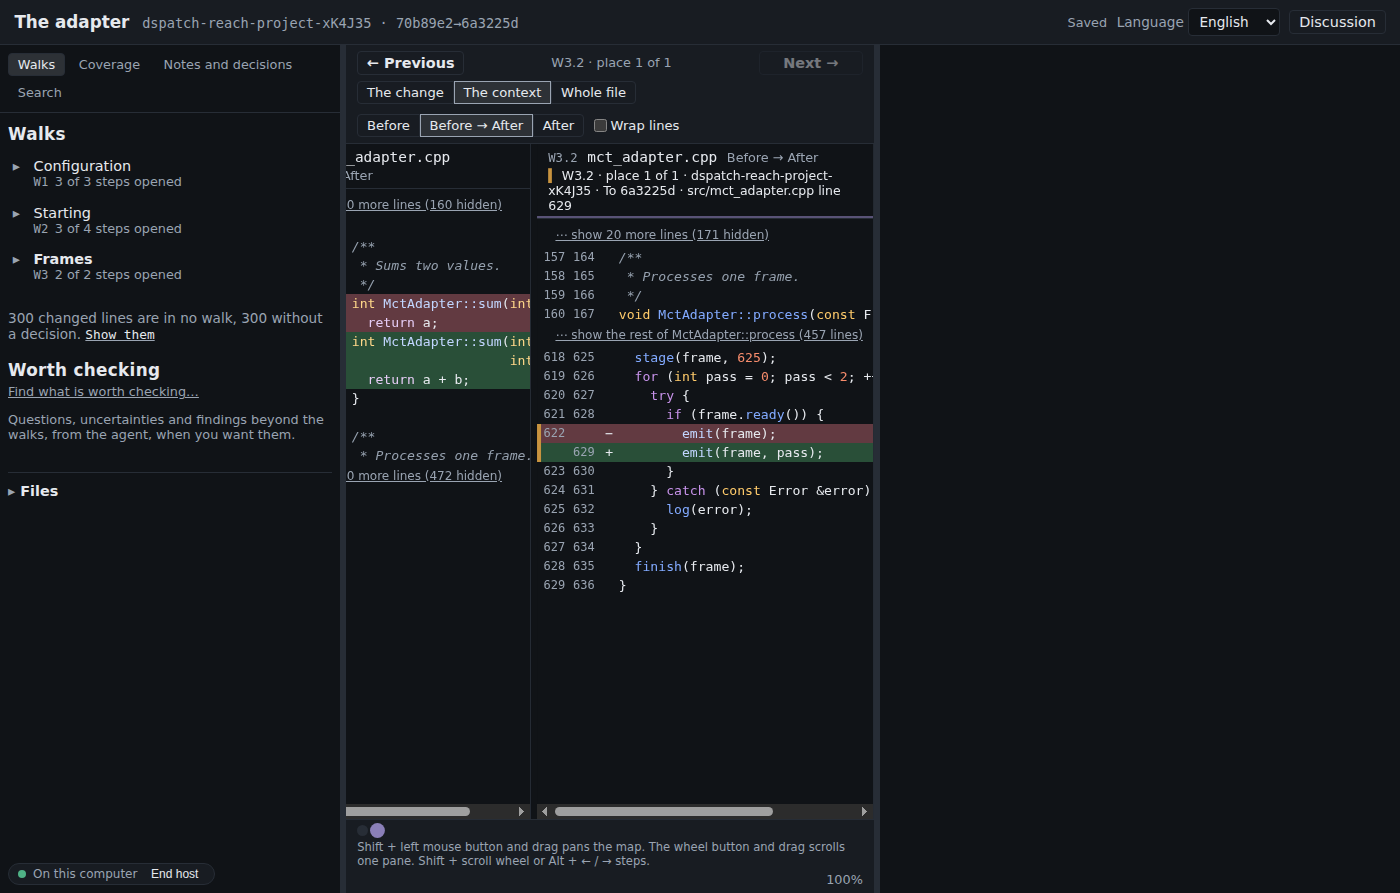
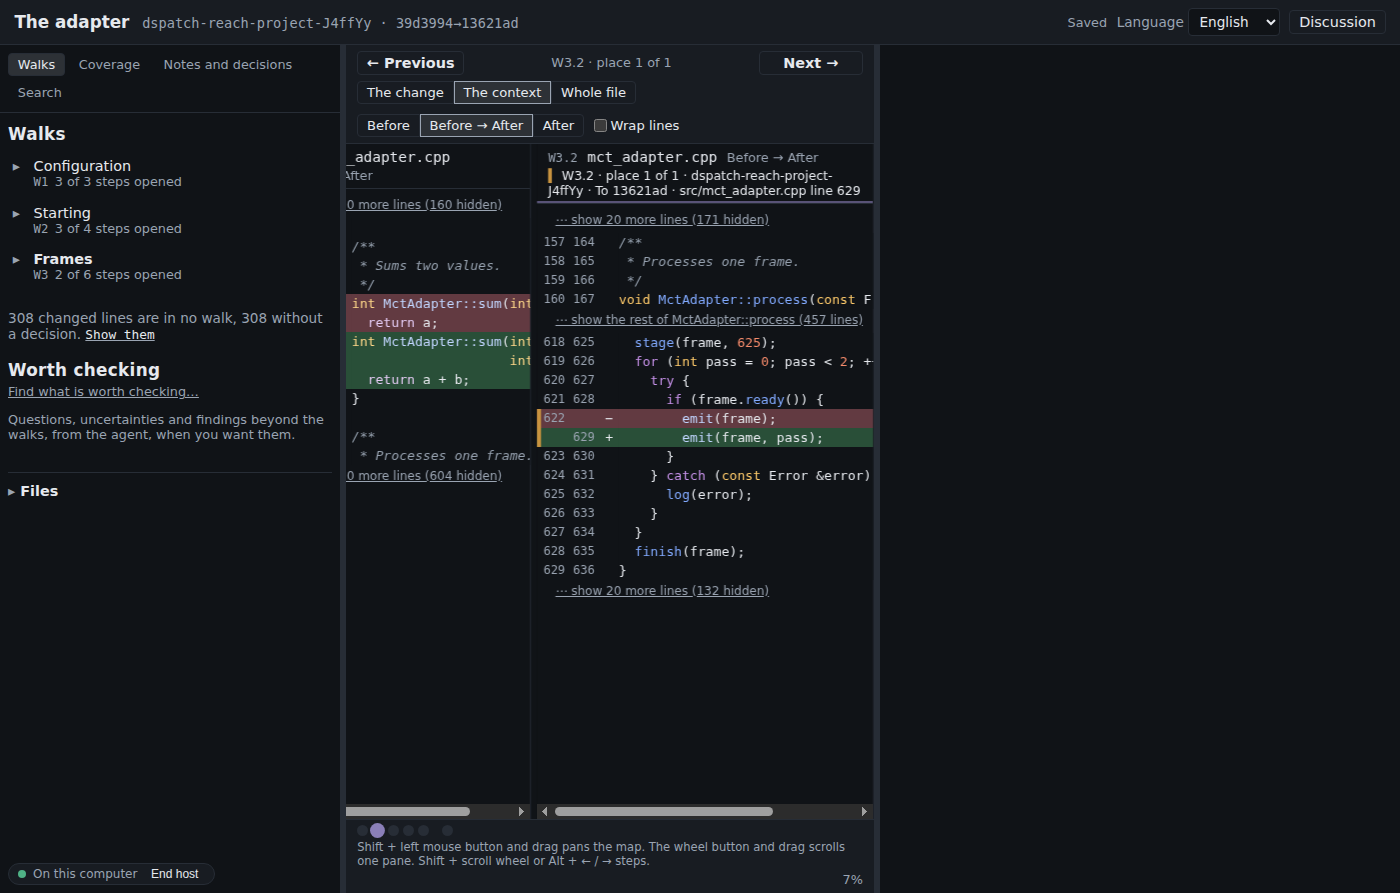
docs: DSP-207's final correction: whole functions up to 150 lines, what the old coverage table counted and what it counts now, uncertain boundaries, with new Linux screenshots

diff --git a/docs/evaluations/dsp-207/README.md b/docs/evaluations/dsp-207/README.md
@@ -7,8 +7,8 @@ Niclas reported two things on 13 November 2026:
 There is no release; he assesses the result first.
 
 Both examples were recreated in [`app/scripts/walk-reach-trial.mjs`](../../../app/scripts/walk-reach-trial.mjs), DSpatch's real windows over a generic C++ project:
-- **Linux, under Xvfb:** 50 of 50 checks, in linux-verify's `dock` job (run 43468653156);
-- **Windows, locally:** 50 of 50.
+- **Linux, under Xvfb:** in linux-verify's `dock` job, 50 of 50 checks first (run 43468653156) and 68 of 68 after the final correction (run 43479029845);
+- **Windows, locally:** 50 of 50, then 68 of 68.
 
 The provider is SIMULATED, so the trial shows scope and bookkeeping, not the quality of a walk or a review. The screenshots in [linux-xvfb/](linux-xvfb/) are from the Linux run.
 
@@ -91,19 +91,60 @@ Otherwise it showed four lines around the change. For C++, and for any place pre
   - Outside functions, the declaration with the lines around it up to blank lines.
 - **Python:** the `def` or `class` with its decorators and comments, its whole signature, the body by indentation, and the control structure.
 - **YAML, INI and TOML, Markdown:** the section or heading the place is in.
-- **No known structure:** the lines around the place up to blank lines, at most twelve on each side. These are marked as not reliable: no fold claims a function name.
+- **No boundary found with certainty:** the lines around the place up to blank lines, at most twelve on each side. These are marked as not reliable: no fold claims a function name, and the pane says beside the file name "Context: the lines around this place (boundary uncertain)". This happens when:
+  - the language's structure is not known;
+  - the braces do not balance, as a conditional build (`#ifdef` with two function headers) or a block-opening macro leaves them;
+  - the file is over 1 MB, where the highlighter does not read it and comments and strings cannot be set aside.
+
+**Robustness.** The finder is a reader of the text, not a compiler's parser, so three shapes are handled on purpose:
+- Preprocessor lines of C, C++, Objective-C and C# (and the lines a trailing backslash continues) are set aside, so a brace in a `#define` is no block.
+- A block opened inside a call's argument list, such as a lambda passed to `std::sort` or a callback, is not taken for a function. The enclosing named function is the context instead.
 
 **At each side.** The structure is found at both sides of the diff, from the base's text and from the target's. A function whose signature or ends changed is shown in Before, After and Before → After ([04-W3.1-before.png](linux-xvfb/04-W3.1-before.png), [05](linux-xvfb/05-W3.1-before-after.png)).
 
-**Short and long units:**
-- **Up to 30 lines,** a unit is shown whole ([02-W1.2-short-function.png](linux-xvfb/02-W1.2-short-function.png)).
-- **A longer one** keeps its documentation and signature, the change with its control structure, and its end in view.
-- **The parts between** fold into "show the rest of `<name>` (n lines)". A gap of up to 12 lines is shown rather than folded.
-- **Examples:** [01](linux-xvfb/01-W1.1-if-block-blank-line-and-function-head.png) and [06](linux-xvfb/06-W3.2-long-function.png).
+**The whole function is the default.**
+- **Up to 150 lines,** a unit is shown whole, with no fold: documentation, signature, body and end. The head is read by scrolling the pane; no click is needed.
+- **Why 150.** A walk pane shows about 28 to 37 lines at a time (28 measured on Windows, about 30 on the Linux runner's window), so 150 lines are four to five pane heights. Below that, scrolling from the change to the head is short. Beyond it the head and the change are several screens apart, which is the repeated expanding in another form.
+- **A unit over 150 lines** keeps its documentation and signature, the change with its enclosing control structure, and its end in view. The parts between fold into "show the rest of `<name>` (n lines)", which opens in one click. A gap of up to 12 lines is shown rather than folded.
+- **Examples:**
+  - a 40-line function: [10](linux-xvfb/10-W3.3-forty-line-function-whole.png);
+  - an 80-line function: [11](linux-xvfb/11-W3.4-eighty-line-function-whole.png);
+  - the user's 128-line function, read by scrolling up: [01b](linux-xvfb/01b-W1.1-function-head-by-scrolling.png);
+  - the 470-line function, folded: [06](linux-xvfb/06-W3.2-long-function.png).
+
+The first version folded every unit over 30 lines; Niclas found that too low (13 November 2026).
 
 **Where the pane opens.** When the head and the change fit in the pane together, the pane opens with the head at the top; otherwise the change is centred, as before. This happens only where a pane is placed anyway: on arrival and when the level or the view changes. A remembered scroll position, the person's level, expansions and pane sizes are kept.
 
 **Shown context decides nothing.** It never widens Accept, a delegation or the coverage. The trial checks that the place decides about exactly 128–131 at the change, context and whole-file levels. Only the place's own changed rows are strong, other changes are weak and unchanged code is plain. The arrival flash and the syntax colours are as before.
+
+## 3. The coverage table
+
+### What it counted
+
+The table below What is left came from `computeCoverage`:
+- **"In a walk", "In code places you opened", "In steps you marked walked through":** counted per hunk, from the walks' references, not the places' marked lines.
+  - A hunk counted with all its lines only when references covered every one of its new lines.
+  - A hunk covered in part was shown as "+ N changes partly", with none of its lines.
+  - So the table said "13 lines + 3 changes partly" where What is left counted 27 lines in walks.
+- **"Accepted by you" and "Exempted by you":** exact lines.
+- **"No decision":** the total less those two. A line with an agent's assessment the person had accepted was counted as without a decision.
+- **"Accepted by an agent":** the fixed text "none – delegated review is not available in this view", untrue since delegation came.
+- **The filter:** it counted whole hunks outside every walk, so a hunk partly in a walk, or a blank line, never showed.
+
+### What it counts now
+
+The table now shows `lineCoverage` in [`shared/review-model.ts`](../../../app/src/shared/review-model.ts). That is the count What is left uses: the same union of the walks' marked lines, and the same holding decisions the Review section reads. Every changed line counts once.
+
+| Row | What it is |
+| --- | --- |
+| In a walk / In no walk | Covered by a walk place's marked lines, or not; the two add up to the total |
+| With a decision | The person's acceptances, agent assessments the person accepted, and the person's exemptions, each shown |
+| No decision | Nothing holds on the line |
+
+- **Each hunk's row** shows its lines, how many are in a walk, how many have a decision, and how many have none. A hunk partly covered or partly decided shows exactly its own lines.
+- **The filter** lists hunks with any line in no walk.
+- **Reading progress** (steps opened, or marked walked through) is no longer counted here: it is the walks' own and is shown with them. A note under the totals says so.
 
 ## Verification
 
@@ -113,7 +154,7 @@ Otherwise it showed four lines around the change. For C++, and for any place pre
 | --- | --- |
 | An earlier decision of 128–130, made in the diff window | Kept as stored |
 | The place over 128–130 | Marks, draws strong and decides about exactly 128–131, at every level. Accept records 128–131 beside the diff's 128–130 |
-| Arrival at W1.1 | The function's documentation and two-line signature are in view, the body is folded and named, and the end is drawn |
+| W1.1's 128-line function | Drawn whole, documentation (line 6) to end (133), with no fold; its documentation and two-line signature are read by scrolling up, with no click |
 | A short function | Shown whole |
 | A declaration outside functions | Shown with the lines around it |
 | Two places in one hunk | The first takes the lines it replaced and the blank line between them; the second keeps its own line |
@@ -123,9 +164,19 @@ Otherwise it showed four lines around the change. For C++, and for any place pre
 | Delegating the first walk | Mandates its marked lines, line 131 with them, and no line outside the walk |
 | What is left | Lists the whitespace change, the lone blank line ("blank lines only"), the substantive change and the new file's rest. Each was opened and decided about exactly, with exactly those rows strong |
 | The undecided walk places | Each was opened and accepted |
-| The end | 327 of 327 changed lines have a decision (100%), every one the person's, and the same after a restart |
+| Functions of 40 and 80 lines (W3.3, W3.4) | Drawn whole with documentation and two-line signature, no fold, only the place's line strong, no uncertainty claimed |
+| A lambda passed to `std::sort` (W3.5) | The enclosing method is the context, not the call |
+| Braces a conditional build leaves unbalanced (W3.6) | The lines around, no fold naming a function, and "boundary uncertain" beside the file name ([12](linux-xvfb/12-W3.6-uncertain-boundary.png)); the unknown language of W2.4 says the same |
+| `table.cpp`, partly in a walk and partly accepted | The table, What is left and the hunk's row agree: 342 lines, 34 in a walk and 308 in no walk (what What is left lists), 9 decided. The hunk shows 5 of 300 in a walk, 5 decided, 295 without ([13](linux-xvfb/13-coverage-table-exact-counts.png), [13b](linux-xvfb/13b-coverage-table-partly-covered-hunk.png)) |
+| The end | Every changed line has a decision (100%), every one the person's; the table says the same (none without a decision), and so does the record after a restart |
 
-**Unit tests:** `tests/walk-reach-and-context.test.ts`, 11 tests, in the `review` group. On Linux the group passed 390 of 390 (run 43468659094).
+**Unit tests:** `tests/walk-reach-and-context.test.ts`, 14 tests, in the `review` group. They add:
+- whole methods of about 40, 66 and 80 lines;
+- a truly large one that folds;
+- lambdas and callbacks in calls, a `#define` brace, unbalanced braces and a file over 1 MB;
+- `lineCoverage` for a hunk partly in a walk and partly decided, agent assessments counted apart, agreeing with What is left.
+
+On Linux the group passed 393 of 393 after the correction (run 43479034877; first 390 of 390 in run 43468659094).
 
 **Existing trials,** in the same Linux run:
 - Accept scope: 32 checks;
@@ -135,12 +186,22 @@ Otherwise it showed four lines around the change. For C++, and for any place pre
 
 All passed. After its DSP-202 expectation above, the walk marking trial passed 37 of 37 on Windows and on Linux. That Linux run, dock run 43471913630, passed every trial of the dock job again, this one's 50 of 50 among them.
 
+**After the final correction** (whole functions up to 150 lines, the exact coverage table, uncertain boundaries):
+- **This trial:** 68 of 68, on Windows and on Linux. In dock run 43479029845 its counts were the same on both: 342 changed lines, 34 in a walk, 9 decided, and \`table.cpp\` 5 of 300 in a walk and decided.
+- **The rest of that dock run:** every other trial passed again, unchanged:
+  - dock: 54 checks;
+  - view preferences: 20;
+  - Accept scope: 32;
+  - walk marking: 37;
+  - walk delegation: 23;
+  - review threads: 110;
+  - syntax colours and views: 62.
+- **Tests:** the Linux test job passed in run 43479034877.
+
+The screenshots in [linux-xvfb/](linux-xvfb/) are from dock run 43479029845.
+
 ## Not established
 
-- **The structure finder is a reader of the text, not a compiler's parser.**
-  - A call that takes a lambda can look like a function header.
-  - Macros that open blocks can mislead it.
-  - The trial covers the shapes listed above, not every codebase.
-- **Very large files** (over 1 MB) are not highlighted, so their comments and strings are not set aside when the structure is read.
-- **The older coverage table** below What is left still counts by hunk ("in a walk … changes partly"), as it did; What is left is the exact count.
+- **The structure finder is a reader of the text, not a compiler's parser.** Balanced macros that change what code means (a macro used as a function header, for example `TEST(Suite, Name) {`), or code the preprocessor removes while its braces still balance, can still be read as ordinary code. The trial and the tests cover the shapes listed above, not every codebase.
+- **A paragraph of statements at file level** (no blank lines, outside any function) is taken as one declaration and folded like a unit when long. In a new file whose lines are all added, such folds say "unchanged lines" for hidden added lines; that wording comes from before DSP-207 and is unchanged here.
 - **Other window managers, Wayland** and **Linux distributions other than the runner's** are not tried.

diff --git a/backlog/tasks/dsp-207 - Code-walks-every-changed-line-reachable-through-the-walks-and-the-whole-enclosing-function-as-the-default-context.md b/backlog/tasks/dsp-207 - Code-walks-every-changed-line-reachable-through-the-walks-and-the-whole-enclosing-function-as-the-default-context.md
@@ -6,7 +6,7 @@ title: >-
 status: Review
 assignee: []
 created_date: '2026-11-13 16:40'
-updated_date: '2026-11-13 17:40'
+updated_date: '2026-11-13 18:23'
 labels:
   - review
   - walks
@@ -47,4 +47,16 @@ Changes: blank-line rule in markedChangedRows (a changed blank line belongs to t
 Checks: tests/walk-reach-and-context.test.ts 11 tests; review group 390/390 on Linux (run 43468659094; on Windows review-context.test.ts fails one Windows-path case unrelated to this change, passing on Linux); typecheck. scripts/walk-reach-trial.mjs 50/50 on Windows and on Linux under Xvfb; dock run 43471913630 all trials green (dock 54, prefs 20, Accept scope 32, walk marking 37, walk delegation 23, threads 110, views 62, walk reach 50). Simulated provider.
 
 Not established: the structure finder reads text, not a compiler's AST (lambdas in calls, macros); files over 1 MB unhighlighted so comments are not set aside; the older hunk-based coverage table remains below What is left; other window managers, Wayland, other distributions.
+
+Final correction, 13 November 2026 (Niclas: the 30-line limit was too low; check the old coverage table; honest uncertain boundaries). No release.
+
+Whole functions: units up to 150 lines are shown whole (a walk pane shows about 28-37 lines, so 150 lines are four to five pane heights); only longer units fold between head, change with its control structure, and end, with named folds. The arrival scroll and the person's expansions and scroll positions are unchanged; Accept and delegation unchanged (checked at every level and in the mandate).
+
+The old coverage table counted walk coverage per hunk from the references (a hunk whole only when fully referenced, partial ones as '+ N changes partly' with no lines; '13 lines + 3 changes partly' where What is left counted 27), 'No decision' left out accepted agent assessments, and 'Accepted by an agent' was a fixed 'none'. It now shows lineCoverage (shared/review-model.ts), the same count as What is left: in a walk / in no walk, with a decision (yours, agent assessments you accepted, exemptions), without one, per hunk too; reading progress is no longer mixed in.
+
+Uncertain boundaries: preprocessor lines (C, C++, Objective-C, C#) set aside; a block opened inside a call's arguments (lambda, callback) is no function; unbalanced braces or a file over 1 MB give the lines around, and the pane says 'Context: the lines around this place (boundary uncertain)'.
+
+Checks: tests/walk-reach-and-context.test.ts 14 tests; Linux test job green (review group 393/393, run 43479034877). walk-reach-trial 68/68 on Windows and on Linux (dock run 43479029845, every other dock trial green again: dock 54, prefs 20, Accept scope 32, walk marking 37, walk delegation 23, threads 110, views 62). Counts agree in the window: 342 changed lines, 34 in a walk + 308 in no walk, 9 decided; table.cpp 5 of 300 in a walk and decided, 295 without.
+
+Seen and left: in a new file whose lines are all added, the walk pane's folds say 'unchanged lines' for hidden added lines (wording from before DSP-207).
 <!-- SECTION:NOTES:END -->

diff --git a/TUTORIAL.md b/TUTORIAL.md
@@ -164,7 +164,7 @@ Useful controls while walking:
 
 | Control | Use it to |
 | --- | --- |
-| **The change / The context / Whole file** | Adjust how much surrounding code you see. **The context** shows the function or method the place is in, with its documentation and signature; in a long function the parts between its head, the change and its end are folded and named. Outside functions it shows the declaration, class or section, and only the lines around the place where the language's structure is not known. |
+| **The change / The context / Whole file** | Adjust how much surrounding code you see. **The context** shows the whole function or method the place is in, with its documentation and signature; only in a very long one (over about 150 lines) are the parts between its head, the change and its end folded and named. Outside functions it shows the declaration, class or section. Where no function or section can be found with certainty (an unknown language, macros or conditional builds, a very large file) it shows the lines around the place and says the boundary is uncertain. |
 | **Before / Before → After / After** | Read the old version, comparison or new version. |
 | **Wrap lines** | Fit long lines within the current pane width. |
 | Pane dividers | Give the code you are reading more space. |
